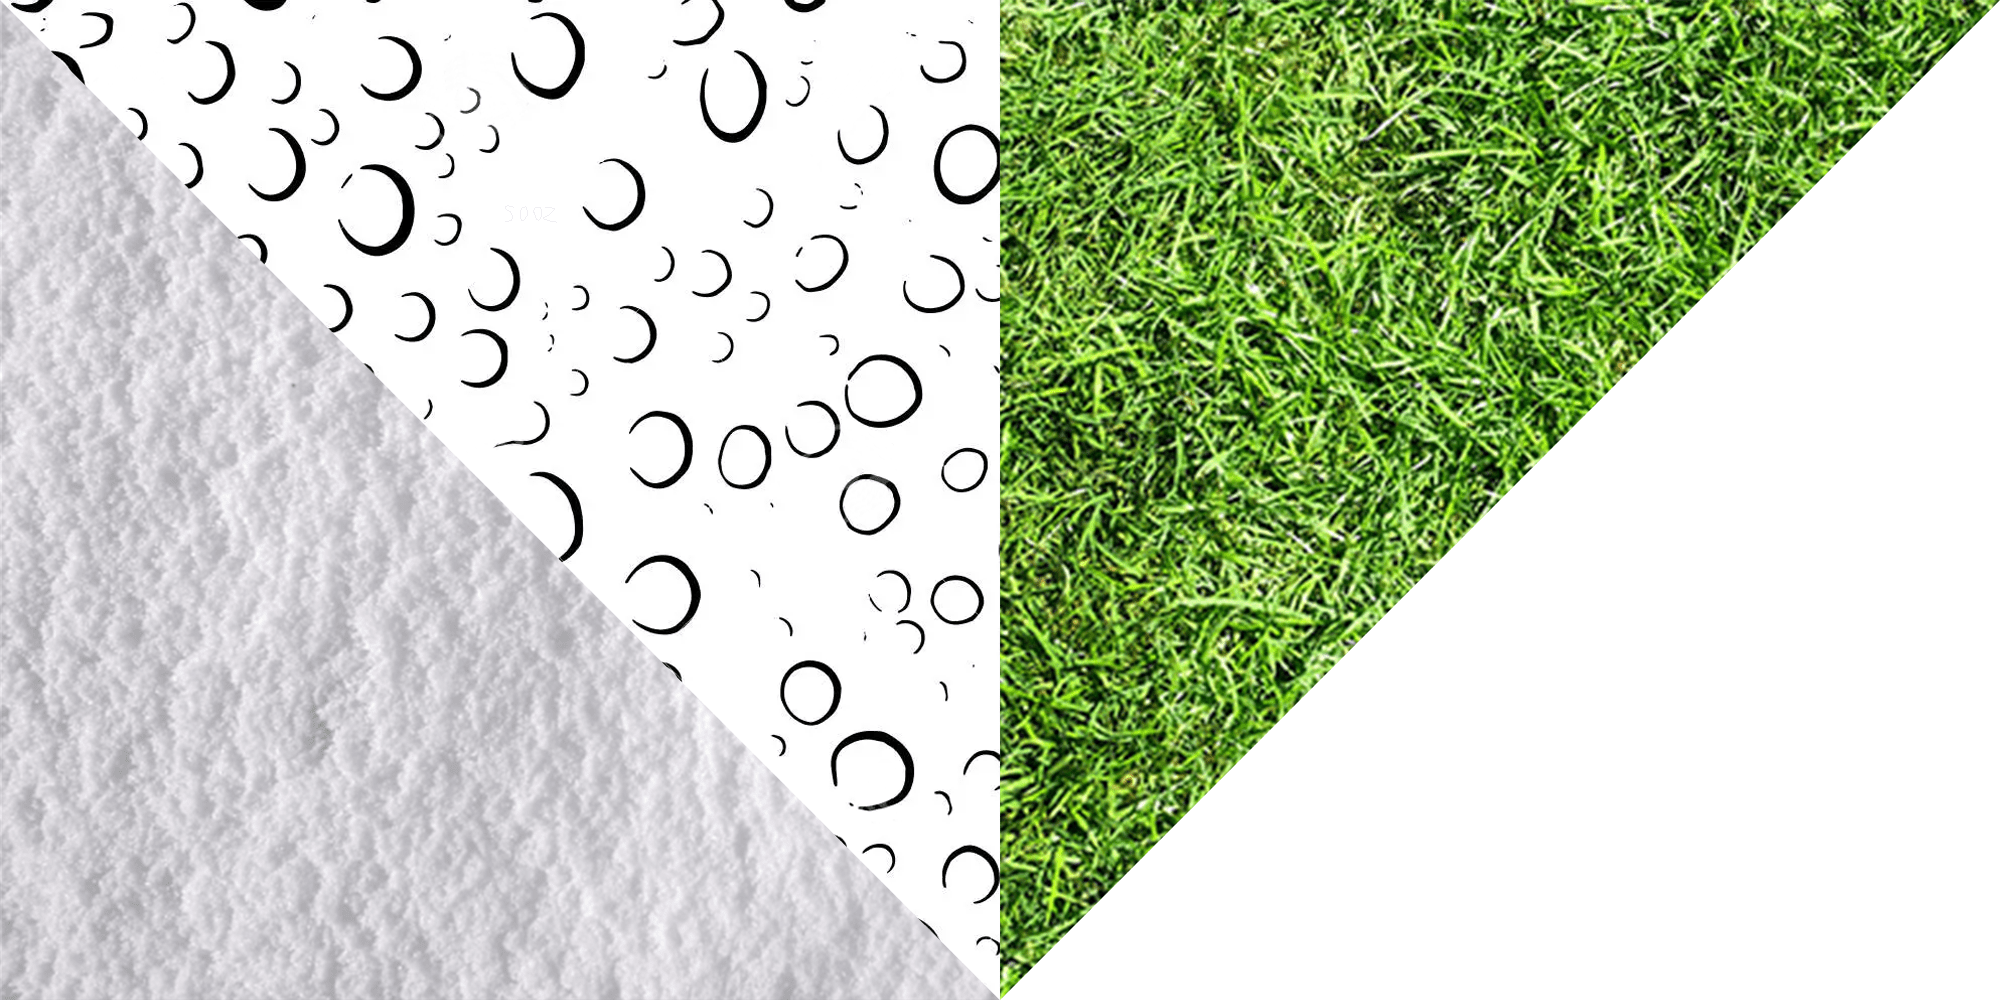
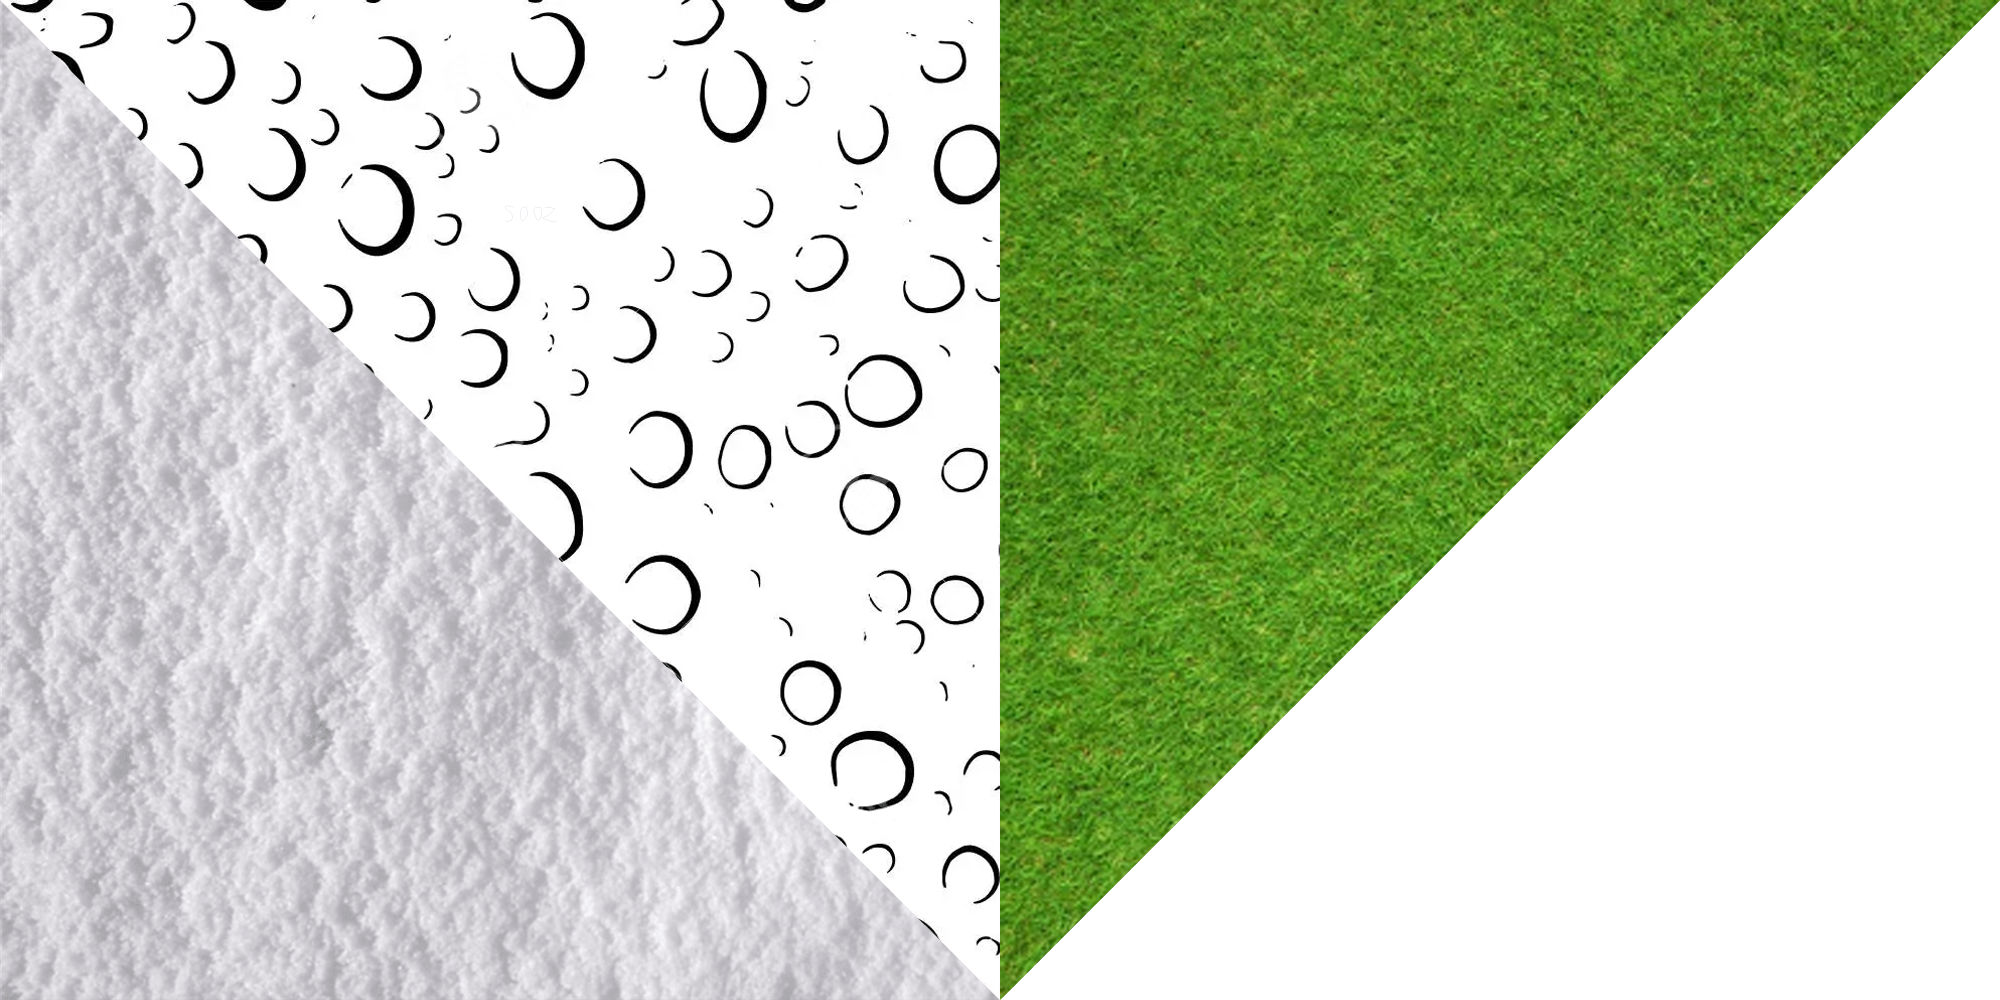
[+] changing texture for the grass

Changed region(s): [[0.496, 0.0, 1.0, 0.992]]

diff --git a/src/mesh/draw.c b/src/mesh/draw.c
@@ -10,6 +10,9 @@
 static const sfVector2f snow[3] =
 {{0, 0}, {1000, 1000}, {0, 1000}};
 
+static const sfVector2f grass[3] =
+{{1000, 0}, {2000, 0}, {1000, 1000}};
+
 static const sfVector2f water[3] =
 {{0, 0}, {1000, 1000}, {1000, 0}};
 
@@ -31,7 +34,7 @@ void draw_triangle(vertex_t vertxs[3], triangle_t *tri, win_t *win)
         if (IS_BLUE(tri->color))
             win->tmp->texCoords = water[i];
         if (IS_GREEN(tri->color))
-            win->tmp->texCoords = water[0];
+            win->tmp->texCoords = grass[i];
         if (IS_WHITE(tri->color))
             win->tmp->texCoords = snow[i];
         sfVertexArray_append(win->array, *win->tmp);

diff --git a/src/window/win_create.c b/src/window/win_create.c
@@ -62,7 +62,7 @@ void init_params(win_t *win, size_t size)
 win_t *win_create(size_t nb_trig, sfVector2f size)
 {
     win_t *win = malloc(sizeof(win_t));
-    sfIntRect rect = {0, 0, 1000, 1000};
+    sfIntRect rect = {0, 0, 2000, 2000};
     if (win == NULL)
         return NULL;
     my_memset(win, 0, sizeof(win_t));
